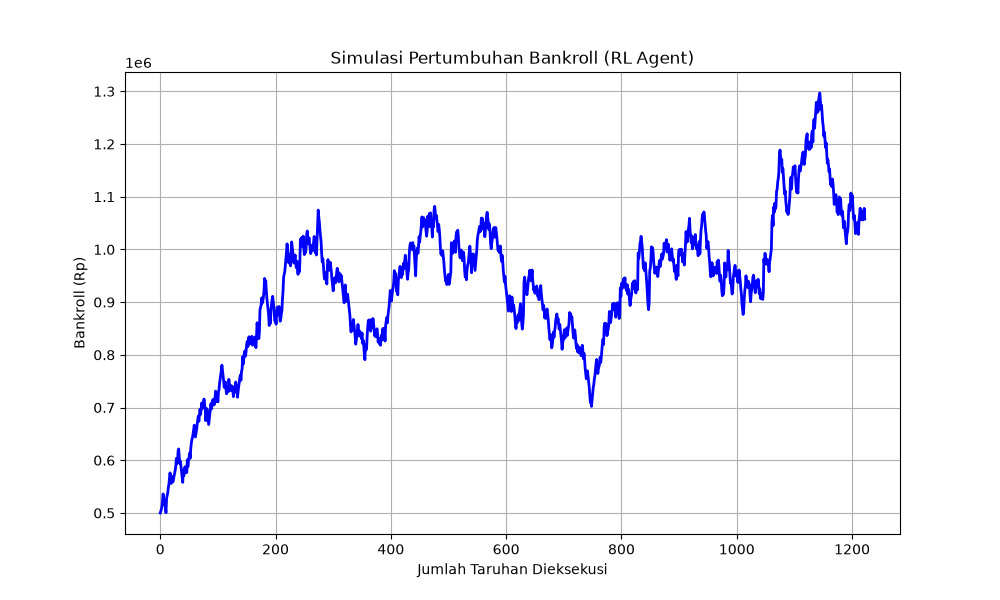
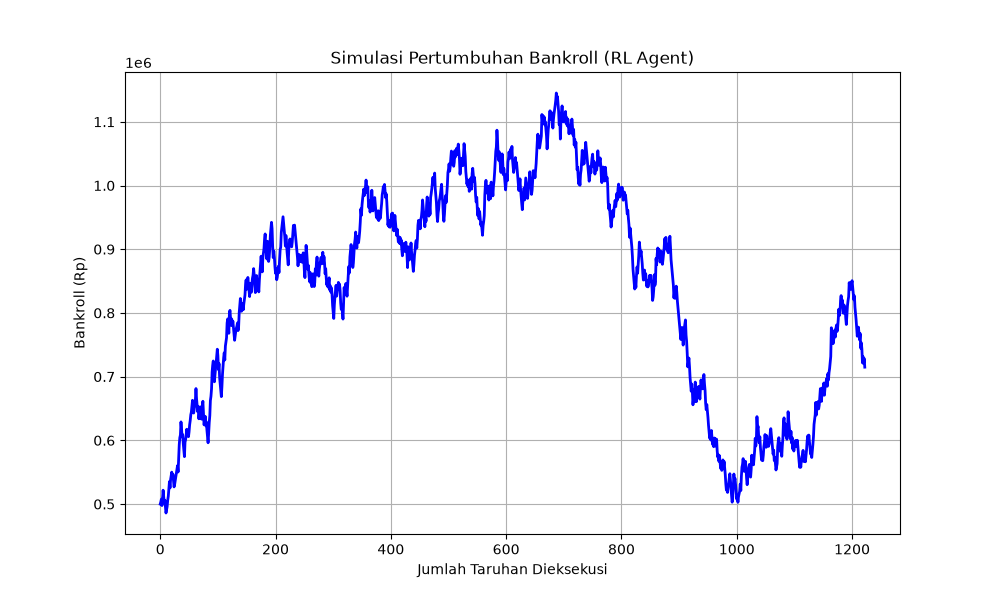
feat(ml): penyesuaian sistem prediksi

diff --git a/website/frontend/src/app/history/page.tsx b/website/frontend/src/app/history/page.tsx
@@ -73,19 +73,40 @@ export default function HistoryPage() {
     if (searchTerm) params.search = searchTerm;
     if (selectedLeague) params.league__code = selectedLeague;
     
-    api.get('/history/', { params })
-      .then((res) => {
-        if (res.data && res.data.results) {
-          setHistory(res.data.results);
-        } else if (Array.isArray(res.data)) {
-          setHistory(res.data);
+    const fetchAllHistory = async () => {
+      try {
+        let allData: MatchHistory[] = [];
+        let currentPageFetch = 1;
+        let hasNextPage = true;
+
+        while (hasNextPage) {
+          const res = await api.get('/history/', { 
+            params: { ...params, page: currentPageFetch, page_size: 100 } 
+          });
+
+          if (res.data && res.data.results) {
+            allData = [...allData, ...res.data.results];
+            if (res.data.next) {
+              currentPageFetch++;
+            } else {
+              hasNextPage = false;
+            }
+          } else if (Array.isArray(res.data)) {
+            allData = [...allData, ...res.data];
+            hasNextPage = false;
+          } else {
+            hasNextPage = false;
+          }
         }
-        setLoading(false);
-      })
-      .catch((err) => {
+        setHistory(allData);
+      } catch (err) {
         console.error("Gagal memuat histori:", err);
+      } finally {
         setLoading(false);
-      });
+      }
+    };
+
+    fetchAllHistory();
   }, [triggerFetch]);
 
   const applyFilters = () => {

diff --git a/website/backend/predictions/services.py b/website/backend/predictions/services.py
@@ -106,7 +106,7 @@ def extract_odds(row):
 def run_feature_engineering_pipeline(df: pd.DataFrame, upload_type: str = 'mixed', skip_weather: bool = False):
     if df.empty:
         return pd.DataFrame(), pd.DataFrame()
-    t_start = time.time()
+    
     df['Date'] = pd.to_datetime(df['Date'], errors='coerce')
     df = df.dropna(subset=['Date', 'HomeTeam', 'AwayTeam', 'Div'])
     df = df.sort_values('Date').reset_index(drop=True)
@@ -191,14 +191,19 @@ def apply_ai_predictions(df: pd.DataFrame, lgbm_ftr, lgbm_ou, agent, is_hist=Fal
         odds = extract_odds(row)
         
         m_probs_ftr = np.array([row['prob_FTR_H'], row['prob_FTR_D'], row['prob_FTR_A']])
+        ftr_labels = ['H', 'D', 'A']
+        ml_pick_ftr = ftr_labels[np.argmax(m_probs_ftr)]
+        
         has_v_ftr, pick_ftr, rl_a_ftr, rl_s_ftr, is_won_ftr, edge_ftr = False, None, "Skip", 0.0, None, 0.0
         
         if sum(m_probs_ftr) > 0:
             try:
-                bets_ftr = detect_value_bets(m_probs_ftr, {'H': odds['H'], 'D': odds['D'], 'A': odds['A']}, ['H', 'D', 'A'])
-                if bets_ftr:
+                bets_ftr = detect_value_bets(m_probs_ftr, {'H': odds['H'], 'D': odds['D'], 'A': odds['A']}, ftr_labels)
+                valid_bets_ftr = [b for b in bets_ftr if b['outcome'] == ml_pick_ftr]
+                
+                if valid_bets_ftr:
                     has_v_ftr = True
-                    best_ftr = max(bets_ftr, key=lambda x: x['edge'])
+                    best_ftr = max(valid_bets_ftr, key=lambda x: x['edge'])
                     pick_ftr = best_ftr['outcome']
                     edge_ftr = best_ftr['edge']
                     
@@ -223,14 +228,25 @@ def apply_ai_predictions(df: pd.DataFrame, lgbm_ftr, lgbm_ou, agent, is_hist=Fal
         prob_over = row['prob_OU25_Yes']
         prob_under = 1.0 - prob_over if prob_over > 0 else 0.0
         m_probs_ou = np.array([prob_over, prob_under])
+        ou_labels = ['O25', 'U25']
+        ml_pick_ou_raw = ou_labels[np.argmax(m_probs_ou)]
+        ml_pick_ou = 'Over 2.5' if ml_pick_ou_raw == 'O25' else 'Under 2.5'
+        
         has_v_ou, pick_ou, rl_a_ou, rl_s_ou, is_won_ou, edge_ou = False, None, "Skip", 0.0, None, 0.0
         
         if sum(m_probs_ou) > 0:
             try:
-                bets_ou = detect_value_bets(m_probs_ou, {'O25': odds['O25'], 'U25': odds['U25']}, ['O25', 'U25'])
-                if bets_ou:
+                bets_ou = detect_value_bets(m_probs_ou, {'O25': odds['O25'], 'U25': odds['U25']}, ou_labels)
+                
+                valid_bets_ou = []
+                for b in bets_ou:
+                    mapped_outcome = 'Over 2.5' if b['outcome'] == 'O25' else 'Under 2.5'
+                    if mapped_outcome == ml_pick_ou:
+                        valid_bets_ou.append(b)
+
+                if valid_bets_ou:
                     has_v_ou = True
-                    best_ou = max(bets_ou, key=lambda x: x['edge'])
+                    best_ou = max(valid_bets_ou, key=lambda x: x['edge'])
                     pick_ou = 'Over 2.5' if best_ou['outcome'] == 'O25' else 'Under 2.5'
                     edge_ou = best_ou['edge']
                     
@@ -441,7 +457,6 @@ def preview_uploaded_data(file_path, upload_type, league_code='ALL'):
 
 @transaction.atomic
 def commit_uploaded_data(upload_type):
-    print("  [DEBUG] Memulai proses unggah data ke Supabase...")
     hist_path = os.path.join(settings.BASE_DIR, 'temp_hist_processed.pkl')
     fix_path = os.path.join(settings.BASE_DIR, 'temp_fix_processed.pkl')
     
@@ -454,7 +469,6 @@ def commit_uploaded_data(upload_type):
     if not df_fixture.empty: all_teams |= set(df_fixture['HomeTeam'].unique()) | set(df_fixture['AwayTeam'].unique())
     team_objs = {name: Team.objects.get_or_create(name=name, defaults={'league': list(league_objs.values())[0]})[0] for name in all_teams if isinstance(name, str)}
     
-    print(f"  [DEBUG] Memproses tiket Parlay (History: {not df_history.empty}, Fixture: {not df_fixture.empty})...")
     if not df_history.empty:
         for _, row in df_history.iterrows():
             UpcomingFixture.objects.filter(date__date=row['Date'].date(), home_team__name=row['HomeTeam'], away_team__name=row['AwayTeam']).delete()
@@ -542,7 +556,6 @@ def commit_uploaded_data(upload_type):
             part_of_parlay=row.get('part_of_parlay', False), parlay_ticket_info=row.get('parlay_ticket_info'), extended_features=ext_feat
         ))
     
-    print(f"  [DEBUG] Menyiapkan Bulk Insert untuk {len(history_inserts)} baris MatchHistory...")
     MatchHistory.objects.bulk_create(history_inserts, batch_size=1000)
     
     fixture_inserts = []
@@ -558,15 +571,12 @@ def commit_uploaded_data(upload_type):
             part_of_parlay=row.get('part_of_parlay', False), parlay_ticket_info=row.get('parlay_ticket_info'), extended_features=clean_json_dict(row.to_dict()), is_processed=True
         ))
     
-    print(f"  [DEBUG] Menyiapkan Bulk Insert untuk {len(fixture_inserts)} baris UpcomingFixture...")
     UpcomingFixture.objects.bulk_create(fixture_inserts, batch_size=500)
     
-    print("  [DEBUG] Proses unggah ke Database selesai!")
     return len(history_inserts), len(fixture_inserts)
 
 @transaction.atomic
 def process_and_append_fetched_data(df: pd.DataFrame, upload_type: str = 'history'):
-    print("  [DEBUG] Memulai penyaringan tanggal, liga, dan validasi duplikat...")
     df_csv = parse_csv_datetime(df)
     if 'Div' in df_csv.columns:
         valid_leagues = list(LEAGUE_NAMES.keys())
@@ -579,13 +589,10 @@ def process_and_append_fetched_data(df: pd.DataFrame, upload_type: str = 'histor
     db_records = []
     teams_in_csv = set(df_csv['HomeTeam'].unique()) | set(df_csv['AwayTeam'].unique())
     
-    print(f"  [DEBUG] Menghubungkan ke Supabase untuk mencocokkan {len(teams_in_csv)} tim...")
     try:
         hist_qs = MatchHistory.objects.filter(
             models.Q(home_team__name__in=teams_in_csv) | models.Q(away_team__name__in=teams_in_csv)
         ).select_related('league', 'home_team', 'away_team')
-        
-        print(f"  [DEBUG] Kueri siap. Memproses baris dengan metode iterator yang ringan...")
         
         for m in hist_qs.iterator(chunk_size=1000):
             db_records.append({
@@ -594,9 +601,7 @@ def process_and_append_fetched_data(df: pd.DataFrame, upload_type: str = 'histor
                 'AvgH': m.avg_h, 'AvgD': m.avg_d, 'AvgA': m.avg_a, 'Avg>2.5': m.avg_over_25, 'Avg<2.5': m.avg_under_25,
                 '_source': 'db'
             })
-        print(f"  [DEBUG] Berhasil memetakan {len(db_records)} catatan lama dari database tanpa freeze.")
     except Exception as e:
-        print(f"  [FATAL ERROR DATABASE]: {str(e)}")
         raise e
         
     df_db = pd.DataFrame(db_records)
@@ -606,7 +611,6 @@ def process_and_append_fetched_data(df: pd.DataFrame, upload_type: str = 'histor
     else:
         df_combined = df_csv.copy()
         
-    print("  [DEBUG] Menjalankan Pipeline Feature Engineering (Klasemen & ELO)...")
     df_hist, df_fix = run_feature_engineering_pipeline(df_combined, upload_type=upload_type, skip_weather=True)
     
     db_hist_qs = MatchHistory.objects.all()
@@ -628,17 +632,14 @@ def process_and_append_fetched_data(df: pd.DataFrame, upload_type: str = 'histor
         df_fix.drop(columns=['match_key'], inplace=True)
         
     if df_hist.empty and df_fix.empty:
-        print("  [DEBUG] Semua data sudah mutakhir di Database. Tidak ada yang perlu diproses.")
         return 0, 0
         
     if not df_hist.empty: df_hist = build_weather_features(df_hist)
     if not df_fix.empty: df_fix = build_weather_features(df_fix)
     
-    print("  [DEBUG] Memulai Prediksi AI (LightGBM & Agen Reinforcement Learning)...")
     df_hist, df_fix = run_ml_predictions_for_preview(df_hist, df_fix)
     
     if upload_type == 'history' and not df_hist.empty:
-        print("  [DEBUG] Menyinkronkan fitur ekstensif dengan data yang sudah ada...")
         df_hist['synced_ext_features'] = None
         df_hist['synced_ext_features'] = df_hist['synced_ext_features'].astype(object)
         hist_dates = df_hist['Date'].dt.date.tolist()
@@ -689,7 +690,6 @@ def process_and_append_fetched_data(df: pd.DataFrame, upload_type: str = 'histor
     df_hist.to_pickle(os.path.join(settings.BASE_DIR, 'temp_hist_processed.pkl'))
     df_fix.to_pickle(os.path.join(settings.BASE_DIR, 'temp_fix_processed.pkl'))
     
-    print("  [DEBUG] Sinkronisasi ML selesai, meneruskan ke proses Database...")
     return commit_uploaded_data(upload_type)
 
 @transaction.atomic

diff --git a/website/backend/run_betting.py b/website/backend/run_betting.py
@@ -82,9 +82,13 @@ def main():
             probs_ftr_all[idx, 1], 
             probs_ftr_all[idx, 0]  
         ])
+        label_names_ftr = ['H', 'D', 'A']
+        ml_pick_ftr = label_names_ftr[np.argmax(model_probs_ftr)]
 
-        bets_ftr = detect_value_bets(model_probs_ftr, odds_dict_ftr, label_names=['H', 'D', 'A'])
-        for b in bets_ftr:
+        bets_ftr = detect_value_bets(model_probs_ftr, odds_dict_ftr, label_names=label_names_ftr)
+        
+        valid_bets_ftr = [b for b in bets_ftr if b['outcome'] == ml_pick_ftr]
+        for b in valid_bets_ftr:
             b['match'] = f"{row['HomeTeam']} vs {row['AwayTeam']}"
             b['date'] = row['Date']
             b['won'] = (b['outcome'] == row['FTR'])
@@ -96,11 +100,14 @@ def main():
         }
         prob_over = probs_ou_all[idx, 1]
         model_probs_ou = np.array([prob_over, 1.0 - prob_over])
+        label_names_ou = ['Over 2.5', 'Under 2.5']
+        ml_pick_ou = label_names_ou[np.argmax(model_probs_ou)]
         
-        bets_ou = detect_value_bets(model_probs_ou, odds_dict_ou, label_names=['Over 2.5', 'Under 2.5'])
+        bets_ou = detect_value_bets(model_probs_ou, odds_dict_ou, label_names=label_names_ou)
         actual_ou = 'Over 2.5' if (row['FTHG'] + row['FTAG'] > 2.5) else 'Under 2.5'
         
-        for b in bets_ou:
+        valid_bets_ou = [b for b in bets_ou if b['outcome'] == ml_pick_ou]
+        for b in valid_bets_ou:
             b['match'] = f"{row['HomeTeam']} vs {row['AwayTeam']} (OU25)"
             b['date'] = row['Date']
             b['won'] = (b['outcome'] == actual_ou)
@@ -117,7 +124,6 @@ def main():
     print(f"Total Expected Value (EV)  : {summary['total_ev']}")
     print(f"Rata-rata Edge Pasar       : {summary['avg_edge'] * 100:.2f}%")
 
-    # Kembalikan ke modal aman yang tidak menabrak batas minimal secara berlebihan
     MODAL_AWAL = 500000.0
 
     print("\n=== TAHAP 3: MELATIH RL AGENT DENGAN HISTORI BETTING ===")
